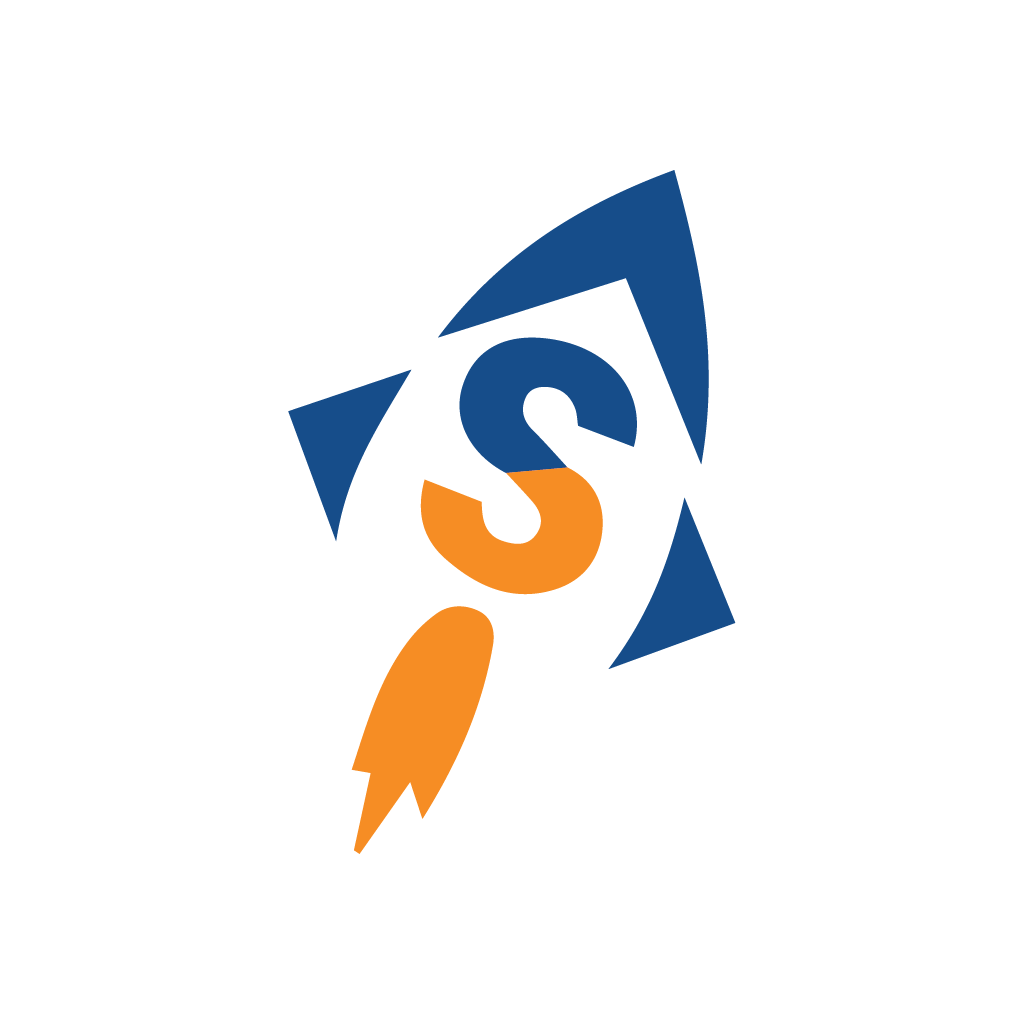
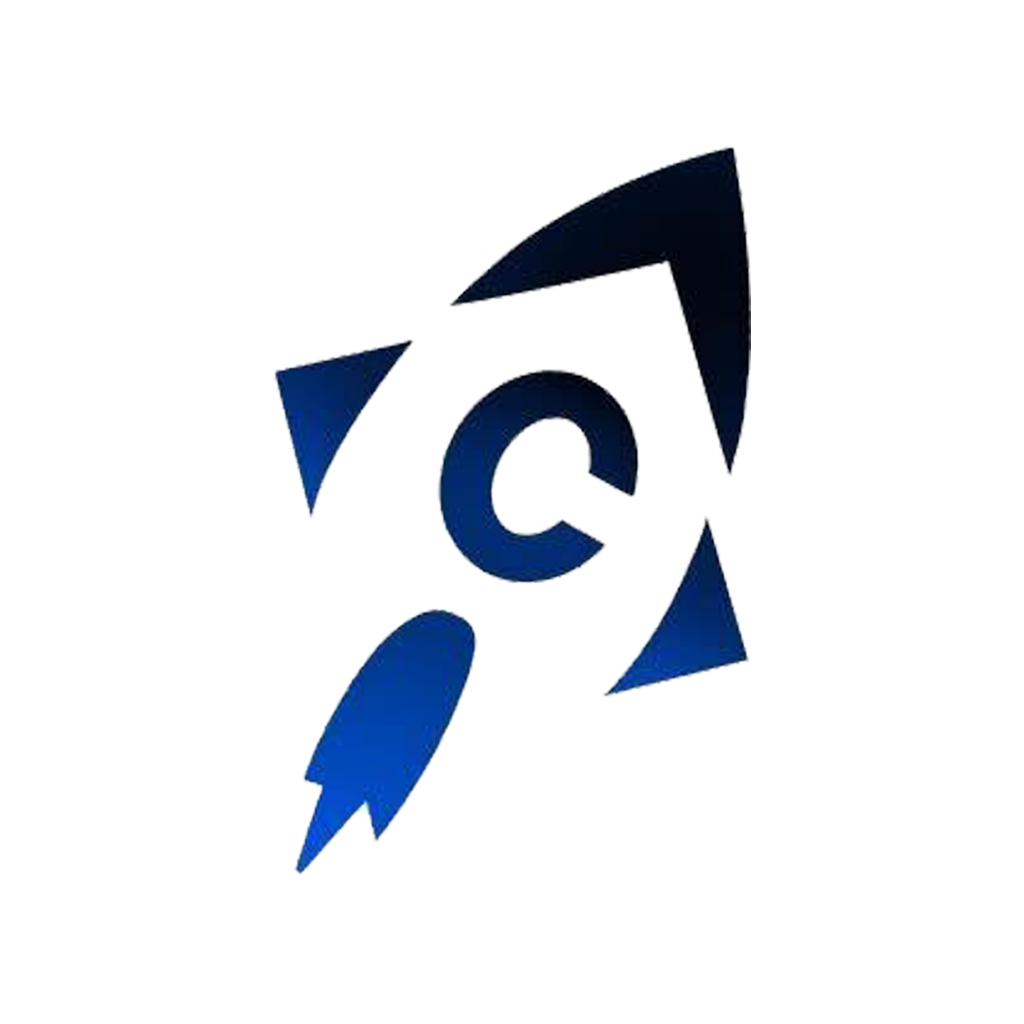
Changing Speer Education to Catalyst

Changed region(s): [[0.2812, 0.125, 0.75, 0.875], [0.5938, 0.5, 0.75, 0.6875], [0.25, 0.3125, 0.4062, 0.5312]]

diff --git a/public/index.html b/public/index.html
@@ -7,24 +7,24 @@
     <meta name="theme-color" content="#000000" />
     <meta
       name="description"
-      content="Speer is a mentorship platform for passionate economics students who wish to learn more about economics/business from college mentors."
+      content="Catalyst is a mentorship platform for passionate economics students who wish to learn more about economics/business from college mentors."
     />
     <meta
       name="keywords"
-      content="Speer, High School Mentorship, College Mentors, Business Mentorship, Economics Mentorship"
+      content="Catalyst, High School Mentorship, College Mentors, Business Mentorship, Economics Mentorship"
     />
 
     <!-- Open Graph / Facebook -->
     <meta property="og:type" content="website">
     <meta property="og:url" content="https://app.speeredu.com/">
-    <meta property="og:title" content="Speer Education">
-    <meta property="og:description" content="Speer is a mentorship community for passionate economics students who wish to learn more about economics & business from college mentors.">
+    <meta property="og:title" content="Catalyst Education">
+    <meta property="og:description" content="Catalyst is a mentorship community for passionate economics students who wish to learn more about economics & business from college mentors.">
     <meta property="og:image" content="%PUBLIC_URL%/SpeerLandingScreenshot.jpg">
 
     <!-- Twitter -->
     <meta property="twitter:url" content="https://app.speeredu.com/">
-    <meta property="twitter:title" content="Speer Education">
-    <meta property="twitter:description" content="Speer is a mentorship community for passionate economics students who wish to learn more about economics and business from college mentors.">
+    <meta property="twitter:title" content="Catalyst Education">
+    <meta property="twitter:description" content="Catalyst is a mentorship community for passionate economics students who wish to learn more about economics and business from college mentors.">
     <meta property="twitter:image" content="%PUBLIC_URL%/SpeerLandingScreenshot.jpg">
 
 
@@ -33,7 +33,7 @@
     <link rel="preconnect" href="https://fonts.gstatic.com">
     <link href="https://fonts.googleapis.com/css2?family=Rubik:ital,wght@0,300;0,400;0,500;0,700;1,400&display=swap" rel="stylesheet">
     <link href="https://fonts.googleapis.com/css2?family=Lato:ital,wght@0,100;0,300;0,400;0,700;0,900;1,100;1,300;1,400;1,700;1,900&family=Rubik:wght@300&display=swap" rel="stylesheet">    <link rel="manifest" href="%PUBLIC_URL%/manifest.json" />
-    <title>Speer Education</title>
+    <title>Catalyst Education</title>
   </head>
   <body>
     <noscript>You need to enable JavaScript to run this app.</noscript>

diff --git a/src/components/Dashboard/NewUserDialog.tsx b/src/components/Dashboard/NewUserDialog.tsx
@@ -8,16 +8,16 @@ const NewUserDialog = ({onClose, ...props}: { open: boolean, onClose: () => void
                 <div className="mt-2 h-full space-y-2 py-2 max-h-[70vh] overflow-y-auto">
                   <article className="prose">
                     <img className="h-20 block" src="/full-transparent-logo.png" alt="logo"/>
-                    <h1>👋 Welcome To Speer 🚀</h1>
-                    <p>Speer is a mentorship organization for passionate economics students who wish to learn more about economics/business from college mentors.</p>
+                    <h1>👋 Welcome To Catalyst 🚀</h1>
+                    <p>Catalyst is a mentorship organization for passionate economics students who wish to learn more about economics/business from college mentors.</p>
                     <h2>Step 1: Post a Welcoming Post</h2>
                     <p>Other users can find more about you through the posts you make! Write something about what you've been doing recently or anything interesting that's been going on in your life.</p> 
                     <h2>Step 2: Conenct with some mentors!</h2>
                     <p>Have any questions? Need some help? Try conencting with our mentors and see how they might be able to help you.</p> 
                     <h2>Step 3: Find new Contacts through Posts or Search! </h2>
-                    <p>Speer doesn't just have mentors, there are many other Users waiting for you to find them. Use the Search Bar or click on each User's Profile and message them. It's all about building your network🌍</p> 
+                    <p>Catalyst doesn't just have mentors, there are many other Users waiting for you to find them. Use the Search Bar or click on each User's Profile and message them. It's all about building your network🌍</p> 
                     <br/>
-                    <h2 className="text-blue-700">What are you waiting for! Go explore Speer!</h2> 
+                    <h2 className="text-blue-700">What are you waiting for! Go explore Catalyst!</h2> 
                   </article>
                 </div>
                 <div className="mt-4 pt-2">

diff --git a/src/pages/Login/Verify.tsx b/src/pages/Login/Verify.tsx
@@ -30,7 +30,7 @@ export default function Verify() {
         <div className="bg-gray-100 h-screen overflow-x-hidden">
             <Helmet>
                 <meta charSet="utf-8" />
-                <title>Sign Up | Speer Education</title>
+                <title>Sign Up | Catalyst Education</title>
             </Helmet>
             <div className="flex flex-row w-screen h-screen">
                 <div className="flex-1 text-left p-6 md:p-20 bg-white space-y-4">
@@ -41,7 +41,7 @@ export default function Verify() {
                         </div>
                     </div>
                     <div className="space-y-2 text-speer-yellow font-extrabold">
-                        <h1><span className="text-speer-blue">We Are</span> Speer</h1>
+                        <h1><span className="text-speer-blue">We Are</span> Catalyst</h1>
                         <h1>We so excited to meet you</h1>
                     </div>
                     <p className="text-gray-600">You should've received an verification email in the inbox of {user?.email}.</p>

diff --git a/src/pages/Login/ForgotPassword.tsx b/src/pages/Login/ForgotPassword.tsx
@@ -41,7 +41,7 @@ export default function ForgotPassword() {
         <div className="bg-gray-100 h-screen overflow-x-hidden">
             <Helmet>
                 <meta charSet="utf-8" />
-                <title>Sign Up | Speer Education</title>
+                <title>Sign Up | Catalyst Education</title>
             </Helmet>
             <div className="flex flex-row w-screen h-screen">
                 <div className="flex-1 text-left p-6 md:p-20 bg-white space-y-4">
@@ -52,7 +52,7 @@ export default function ForgotPassword() {
                         </div>
                     </div>
                     <div className="space-y-2 text-speer-yellow font-extrabold">
-                        <h1><span className="text-speer-blue">We Are</span> Speer</h1>
+                        <h1><span className="text-speer-blue">We Are</span> Catalyst</h1>
                         <h1>We so excited to meet you</h1>
                     </div>
                     {!isSubmitSuccessful ? <div className='flex flex-col w-[240px] space-y-3'>

diff --git a/src/pages/Login/Login.tsx b/src/pages/Login/Login.tsx
@@ -81,13 +81,13 @@ export default function Login() {
         <div className="bg-gray-100 h-screen overflow-x-hidden">
             <Helmet>
                 <meta charSet="utf-8" />
-                <title>Login | Speer Education</title>
+                <title>Login | Catalyst Education</title>
             </Helmet>
             <div className="flex flex-row w-screen h-screen">
                 <div className="flex-1 text-left p-6 md:p-20 bg-white space-y-4">
                     <img className="h-24 -ml-4" src="/full-transparent-logo.png" alt="speer logo"/>
                     <div className="space-y-2 text-speer-yellow font-extrabold">
-                        <h1><span className="text-speer-blue">We Are</span> Speer</h1>
+                        <h1><span className="text-speer-blue">We Are</span> Catalyst</h1>
                         <h1>We help you connect to people</h1>
                     </div>
                     <p className="text-gray-600">Sign up or Login to find out what we can do for you!</p>

diff --git a/src/components/AppNavbar/AppNavbar.tsx b/src/components/AppNavbar/AppNavbar.tsx
@@ -78,7 +78,7 @@ const AppNavbar = () => {
   return (<SlideTransition in timeout={50}>
     <div className="fixed bottom-0 lg:sticky lg:top-0 w-full h-14 lg:p-4 lg:h-24 bg-white z-10 shadow-md flex flex-row items-center justify-between">
       {!mobileBar && <div className="flex flex-row	items-center">
-        <img className="h-20 hidden lg:block cursor-pointer pr-4" src="/full-transparent-logo.png" alt="logo" onClick={() => navigate('/')} />
+        <img className="h-20 hidden lg:block cursor-pointer p-4 " src="/full-transparent-logo.png" alt="logo" onClick={() => navigate('/')} />
         <SearchBar />
       </div>}
       <div className="w-full lg:w-auto flex flex-row max-w-4xl justify-center items-center space-x-3">

diff --git a/src/components/AppNavbar/MobileTopBar.tsx b/src/components/AppNavbar/MobileTopBar.tsx
@@ -27,7 +27,7 @@ const MobileTopBar = () => {
     return (
         <div className="sticky lg:hidden top-0 left-0 w-screen h-14 bg-white z-50 shadow-md">
             <div className="flex flex-row items-center h-full justify-between">
-                <img className="-mb-1 h-14 cursor-pointer pr-4" src="/full-transparent-logo.png" alt="logo" onClick={() => navigate('/')} />
+                <img className="-mb-1 h-14 cursor-pointer p-2" src="/full-transparent-logo.png" alt="logo" onClick={() => navigate('/')} />
                 <div className='flex flex-row space-x-2 items-center'>
                     <IconButton onClick={openSearchDialog}>
                         <SearchRounded />

diff --git a/src/pages/Onboarding/Onboarding.tsx b/src/pages/Onboarding/Onboarding.tsx
@@ -134,7 +134,7 @@ export default function UserDetails() {
         <div className="bg-gray-100 md:h-screen overflow-x-hidden flex justify-center md:items-center">
             <Helmet>
                 <meta charSet="utf-8" />
-                <title>Onboarding | Speer Education</title>
+                <title>Onboarding | Catalyst Education</title>
             </Helmet>
             {!updatingClaims ? <div className="flex flex-col md:flex-row  bg-white rounded-2xl onboardingForm shadow-xl">
                 <div className="flex-1 pr-2 py-3 space-y-2 onboardingForm__welcomeContainer">

diff --git a/src/pages/MainApp/ProfilePage/ProfilePage.tsx b/src/pages/MainApp/ProfilePage/ProfilePage.tsx
@@ -87,7 +87,7 @@ function ProfilePage({ isUser=false }: { isUser?: boolean }) {
         !profileFound ? <NotFoundPage/> : <div className="profilePage h-app">
             <Helmet>
                 <meta charSet="utf-8" />
-                <title>{isUser?"Your":name || ""} Profile | Speer Education</title>
+                <title>{isUser?"Your":name || ""} Profile | Catalyst Education</title>
             </Helmet>
             <Zoom in>
                 <div className="w-screen h-full grid xl:grid-cols-[350px_auto_350px] md:grid-cols-[auto_350px] grid-cols-1 ">

diff --git a/src/components/Loader/AppLoader.tsx b/src/components/Loader/AppLoader.tsx
@@ -6,7 +6,7 @@ export default function AppLoader() {
     <div className="grid place-items-center w-screen h-screen bg-gray-100">
         <div className="flex flex-col items-center space-y-2">
             <img className="object-contain w-24 p-4" src="/rocket-logo@3x.png" />
-            <h2>Loading Speer App</h2>
+            <h2>Loading Catalyst App</h2>
             <p>Please Wait</p>
             <div className="animate-pulse h-2 rounded-md w-52 bg-gray-400"></div>
         </div>

diff --git a/src/pages/Fallback/NotFoundPage.tsx b/src/pages/Fallback/NotFoundPage.tsx
@@ -8,7 +8,7 @@ function NotFoundPage() {
         <div className="bg-gray-100 h-screen overflow-x-hidden">
             <Helmet>
                 <meta charSet="utf-8" />
-                <title>Error 404 | Speer Education</title>
+                <title>Error 404 | Catalyst Education</title>
             </Helmet>
             <div className="flex flex-row w-screen h-screen">
                 <div className="flex-1 text-left p-20 bg-white space-y-4">

diff --git a/src/pages/MainApp/Dashboard/Dashboard.tsx b/src/pages/MainApp/Dashboard/Dashboard.tsx
@@ -20,7 +20,7 @@ function Dashboard() {
             <div className="dashboard h-app">
                 <Helmet>
                     <meta charSet="utf-8" />
-                    <title>Dashboard | Speer Education</title>
+                    <title>Dashboard | Catalyst Education</title>
                 </Helmet>
                 <NewUserDialog open={showNewUserDialog} onClose={() => {
                     setShowNewUserDialog(false)
